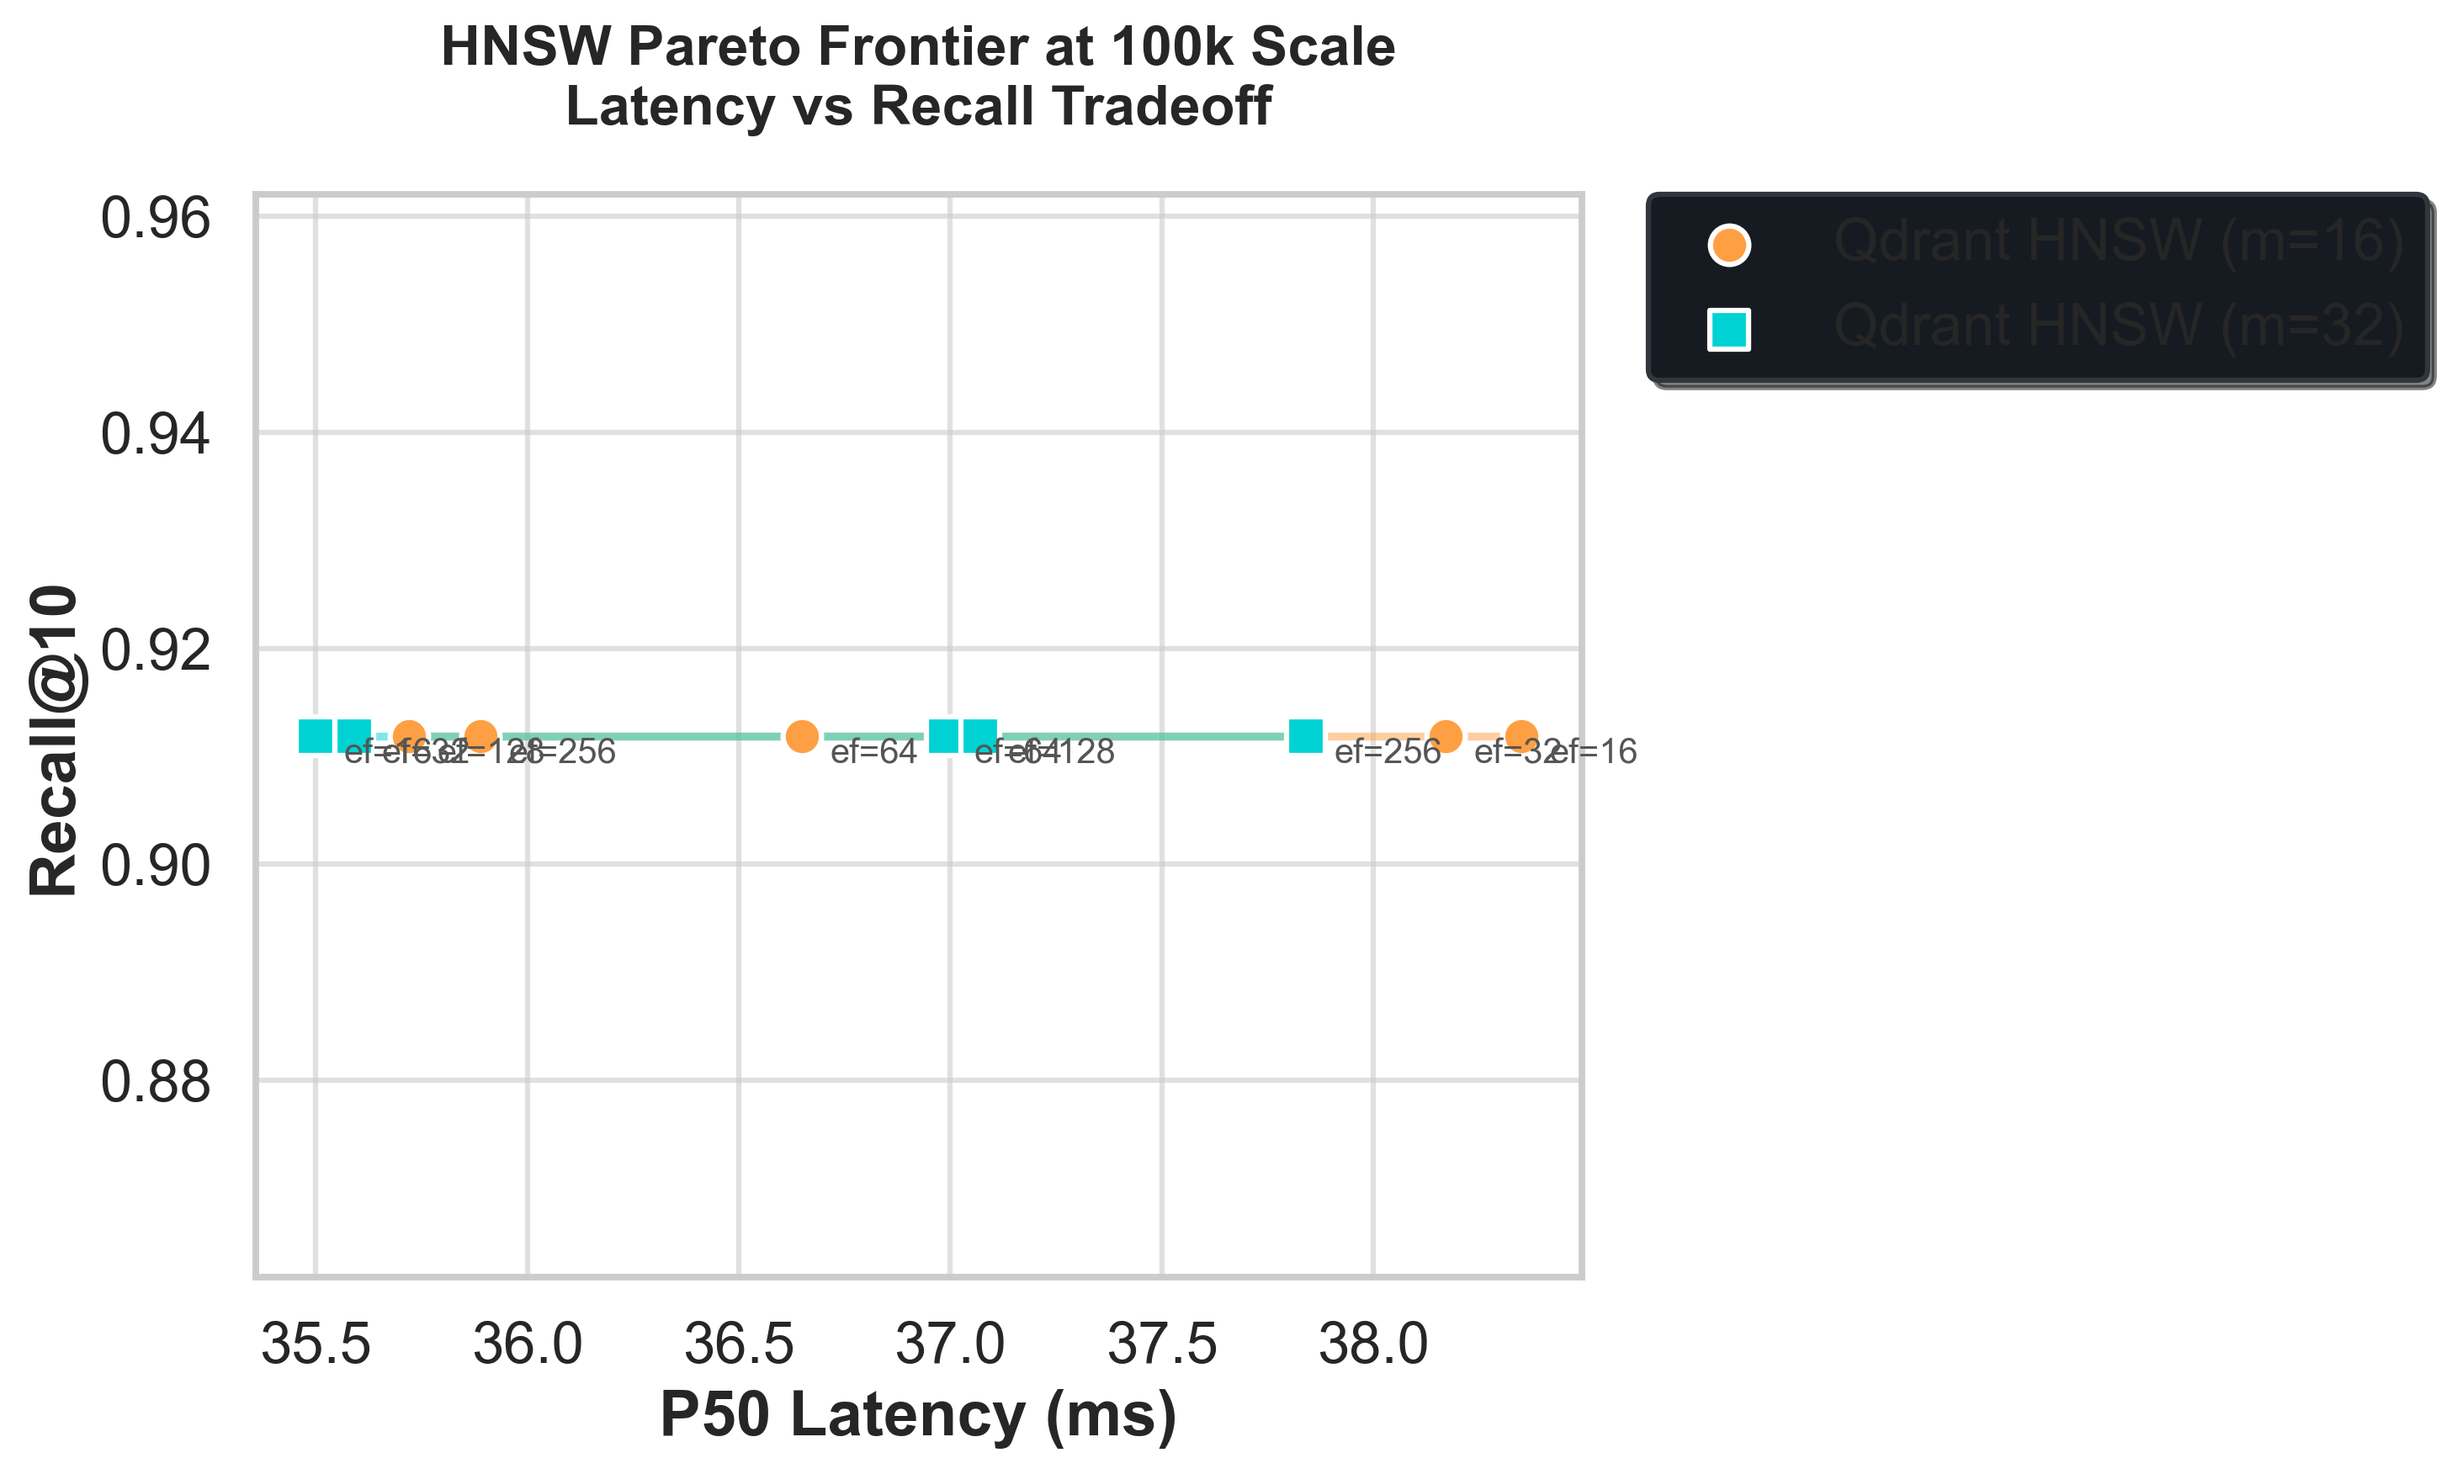
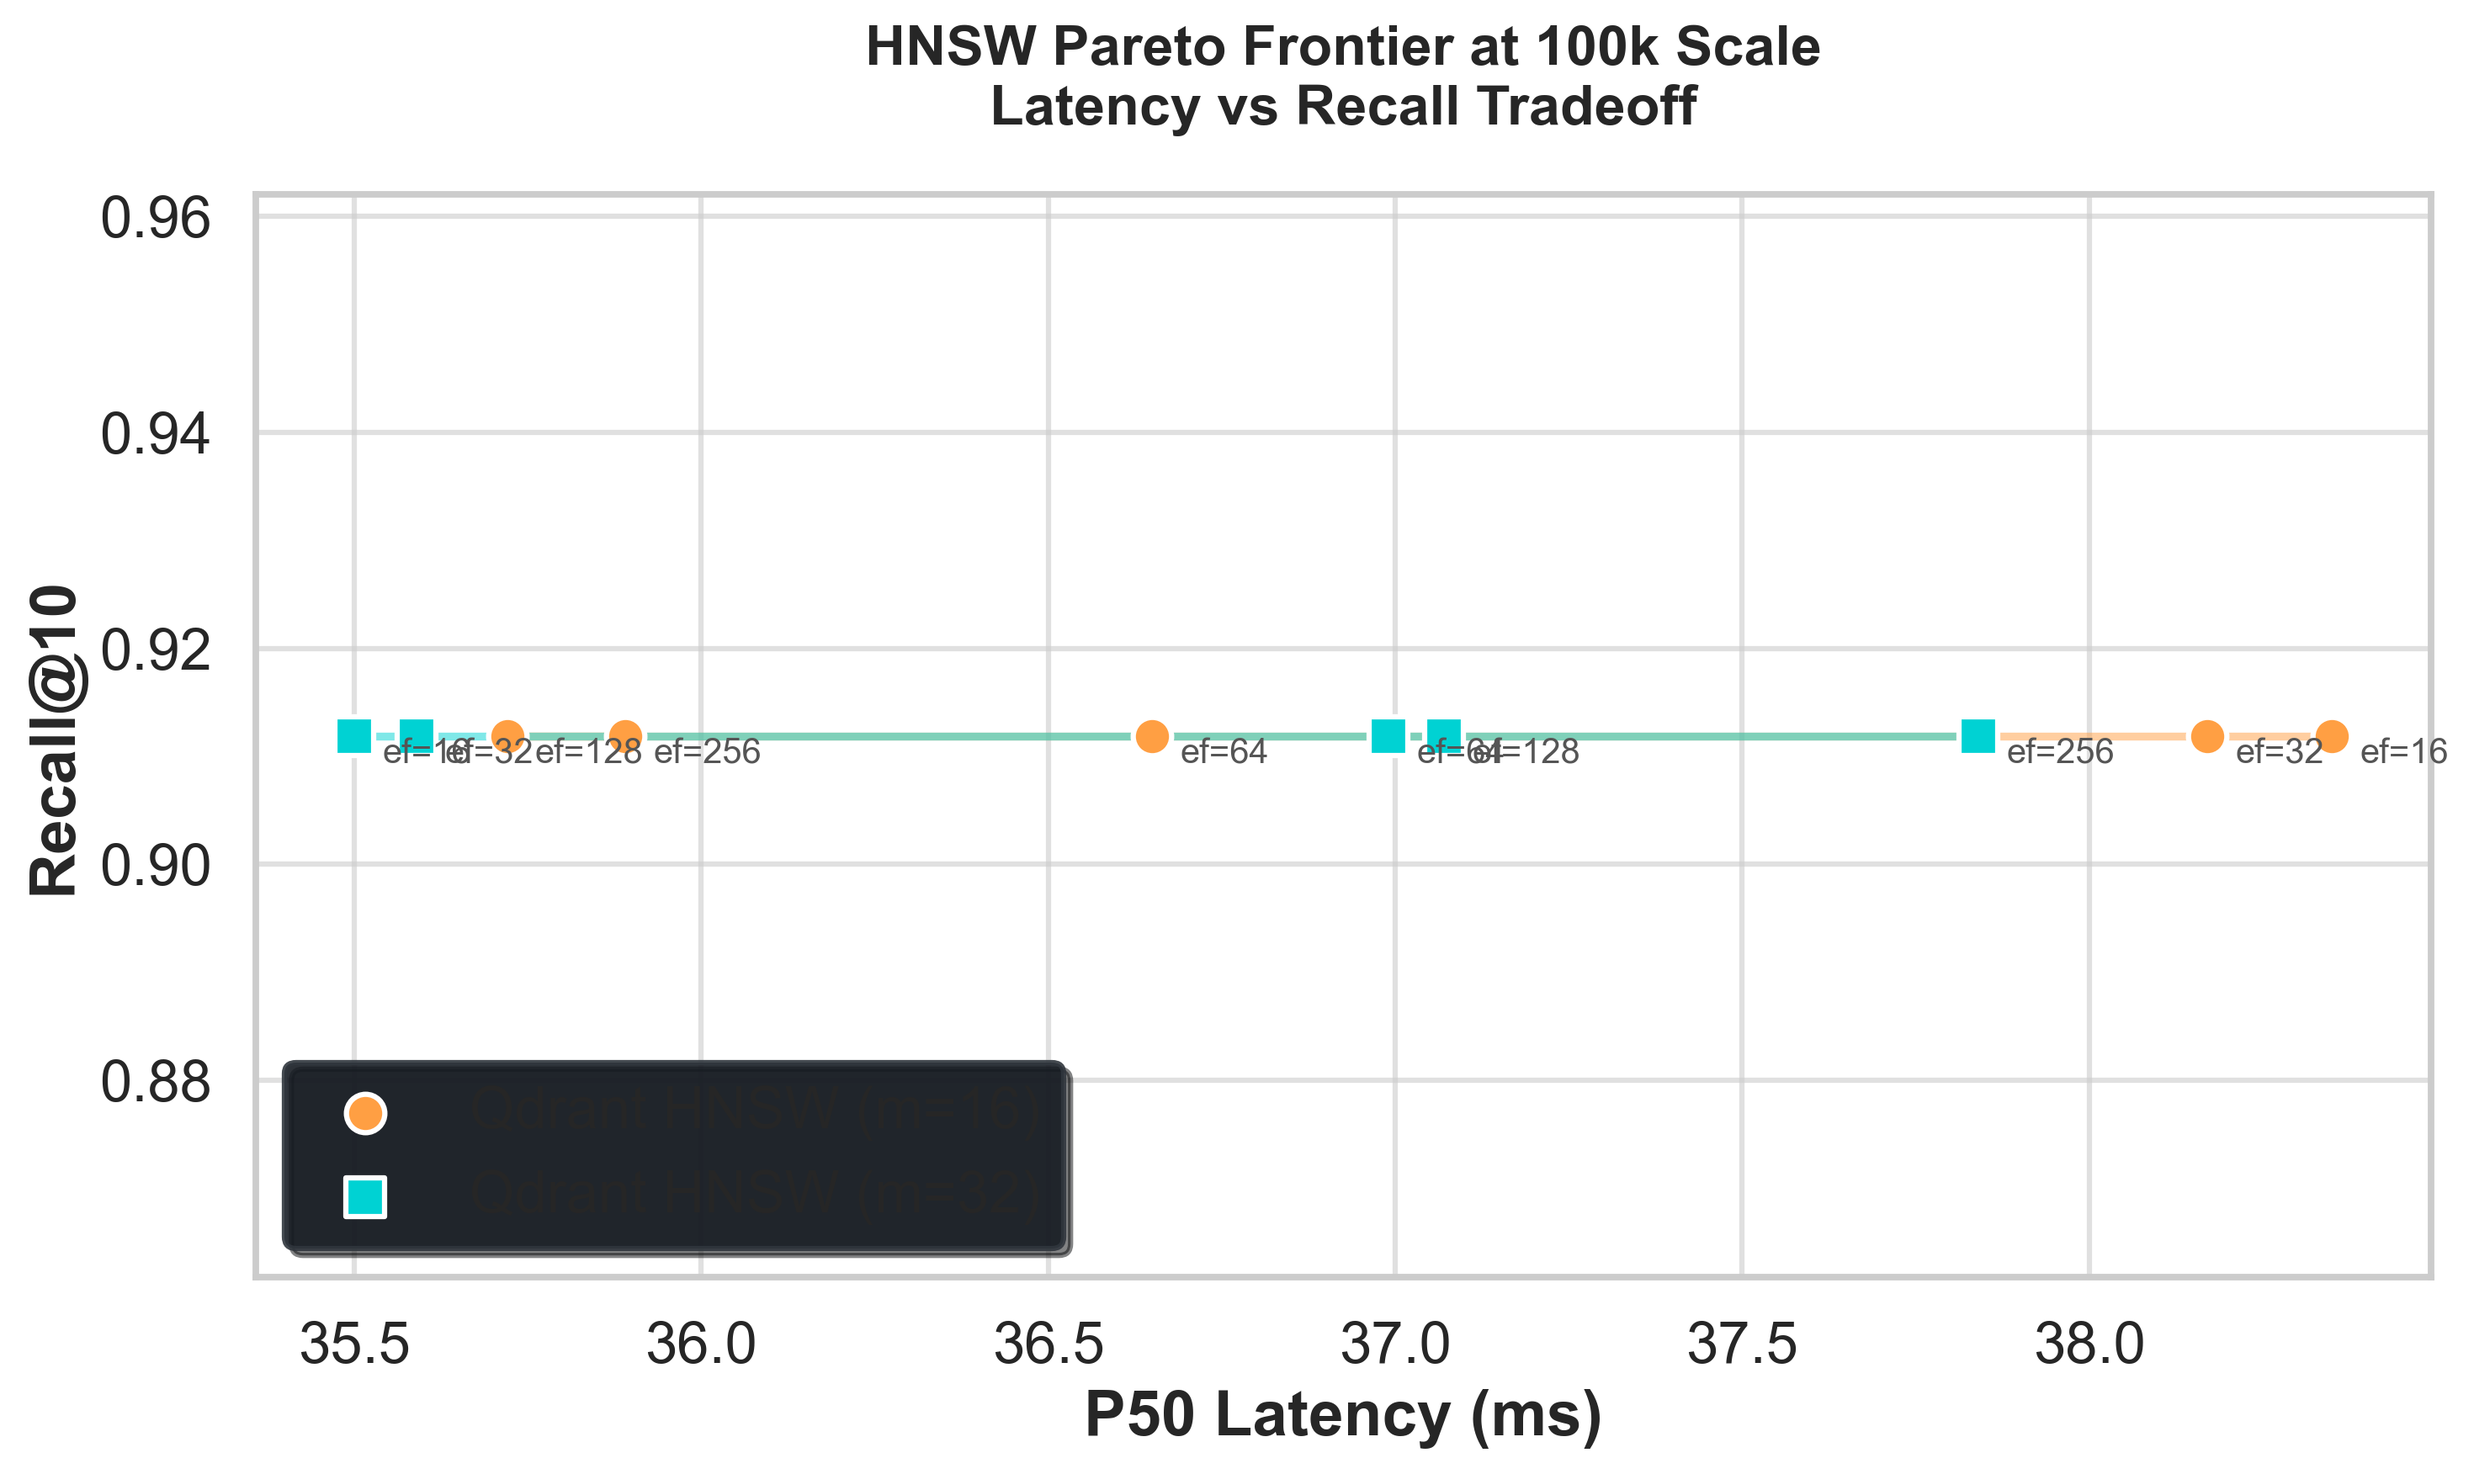
Fix chart legend cutoff by placing legends inside the frame with alpha mapping

diff --git a/src/visualize.py b/src/visualize.py
@@ -158,7 +158,7 @@ def plot_latency_vs_scale():
     ax.set_xlabel("Dataset Size (passages)")
     ax.set_ylabel("P50 Latency (ms)")
     ax.set_title("Query Latency vs Dataset Scale")
-    ax.legend(bbox_to_anchor=(1.05, 1), loc="upper left", borderaxespad=0.)
+    ax.legend(loc="upper left", frameon=True, facecolor="#161b22", edgecolor="#30363d", framealpha=0.9)
     ax.grid(True, linestyle="--")
     ax.xaxis.set_major_formatter(ticker.FuncFormatter(lambda x, _: f"{int(x/1000)}k"))
 
@@ -197,7 +197,7 @@ def plot_pareto_frontier(advanced_data: dict):
     plt.title("HNSW Pareto Frontier at 100k Scale\nLatency vs Recall Tradeoff", pad=20, fontweight="bold")
     plt.xlabel("P50 Latency (ms)", fontweight="bold")
     plt.ylabel("Recall@10", fontweight="bold")
-    plt.legend(bbox_to_anchor=(1.05, 1), loc="upper left", borderaxespad=0., frameon=True, shadow=True, fancybox=True)
+    plt.legend(loc="lower left", frameon=True, shadow=True, fancybox=True, framealpha=0.9)
     plt.tight_layout()
     save_chart(fig, "pareto_frontier_qdrant")
 
@@ -234,7 +234,7 @@ def plot_recall_at_k(advanced_data: dict):
     plt.xticks(k_values, labels=[str(k) for k in k_values])
     plt.ylim(0.2, 1.05)
     plt.grid(True, which="both", ls="-", alpha=0.2)
-    plt.legend(bbox_to_anchor=(1.05, 1), loc="upper left", borderaxespad=0., frameon=True, shadow=True, fancybox=True)
+    plt.legend(loc="lower right", frameon=True, shadow=True, fancybox=True, framealpha=0.9)
     
     plt.tight_layout()
     save_chart(fig, "recall_at_k_curves")
@@ -273,7 +273,7 @@ def plot_concurrency(advanced_data: dict):
     plt.ylim(0, max(qps) * 1.2)
     
     plt.axhline(y=max(qps), color='r', linestyle='--', alpha=0.3, label=f"Saturation: ~{int(max(qps))} QPS")
-    plt.legend(bbox_to_anchor=(1.05, 1), loc="upper left", borderaxespad=0.)
+    plt.legend(loc="lower right", frameon=True, framealpha=0.9, shadow=True)
     
     plt.tight_layout()
     save_chart(fig, "concurrency_scaling")
